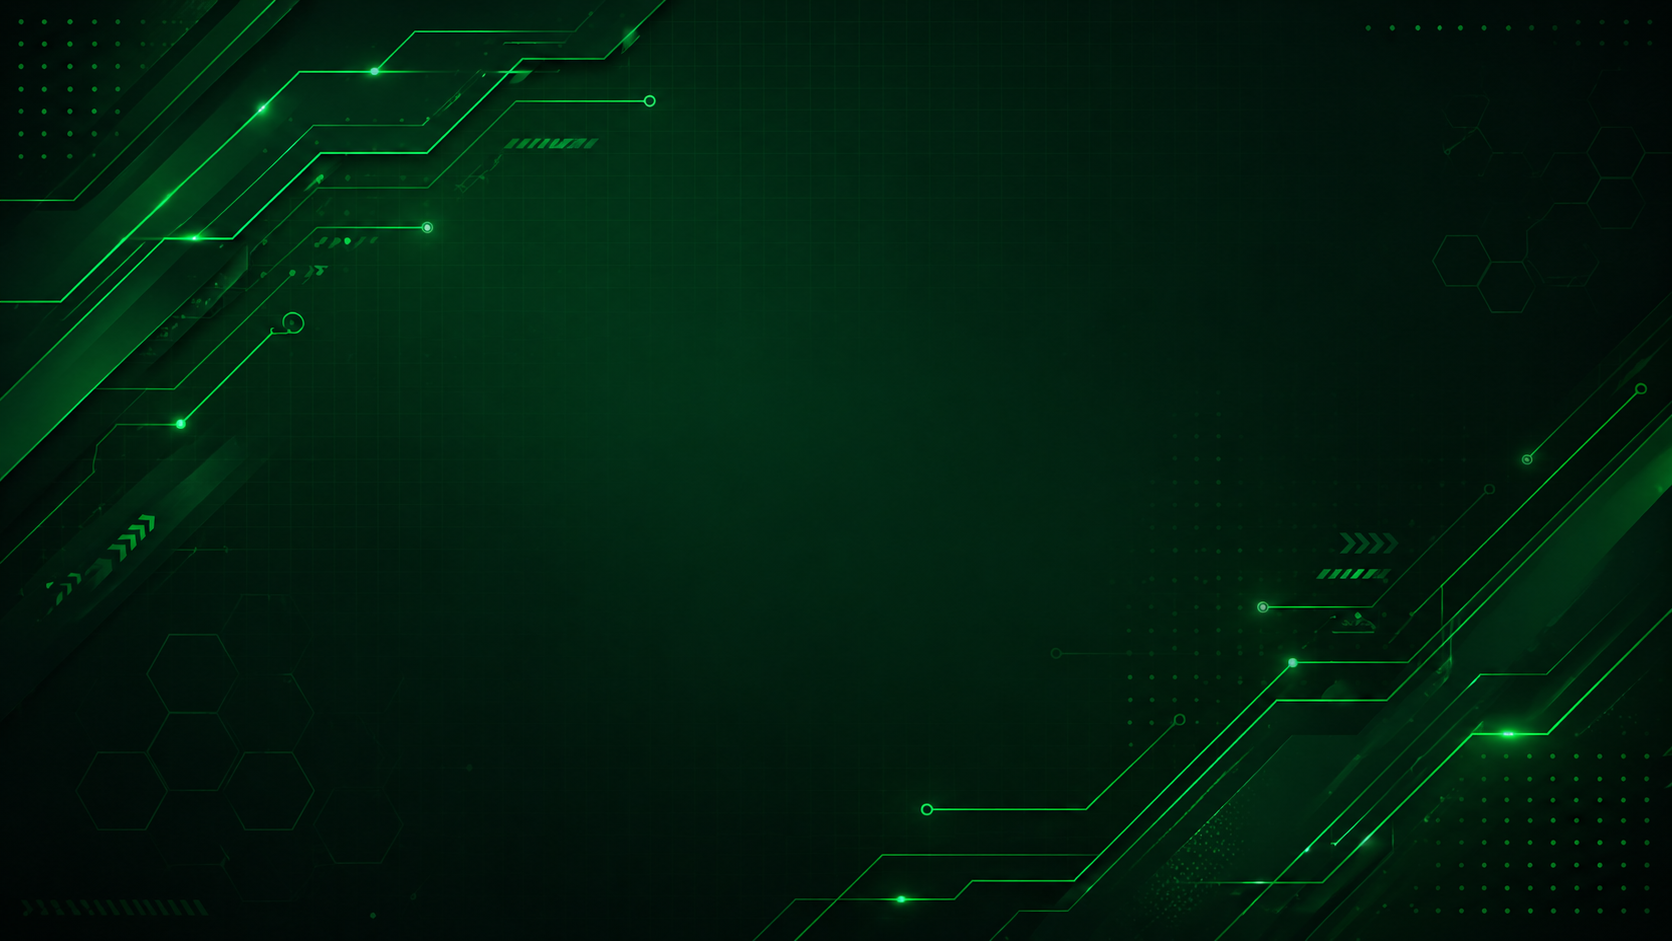
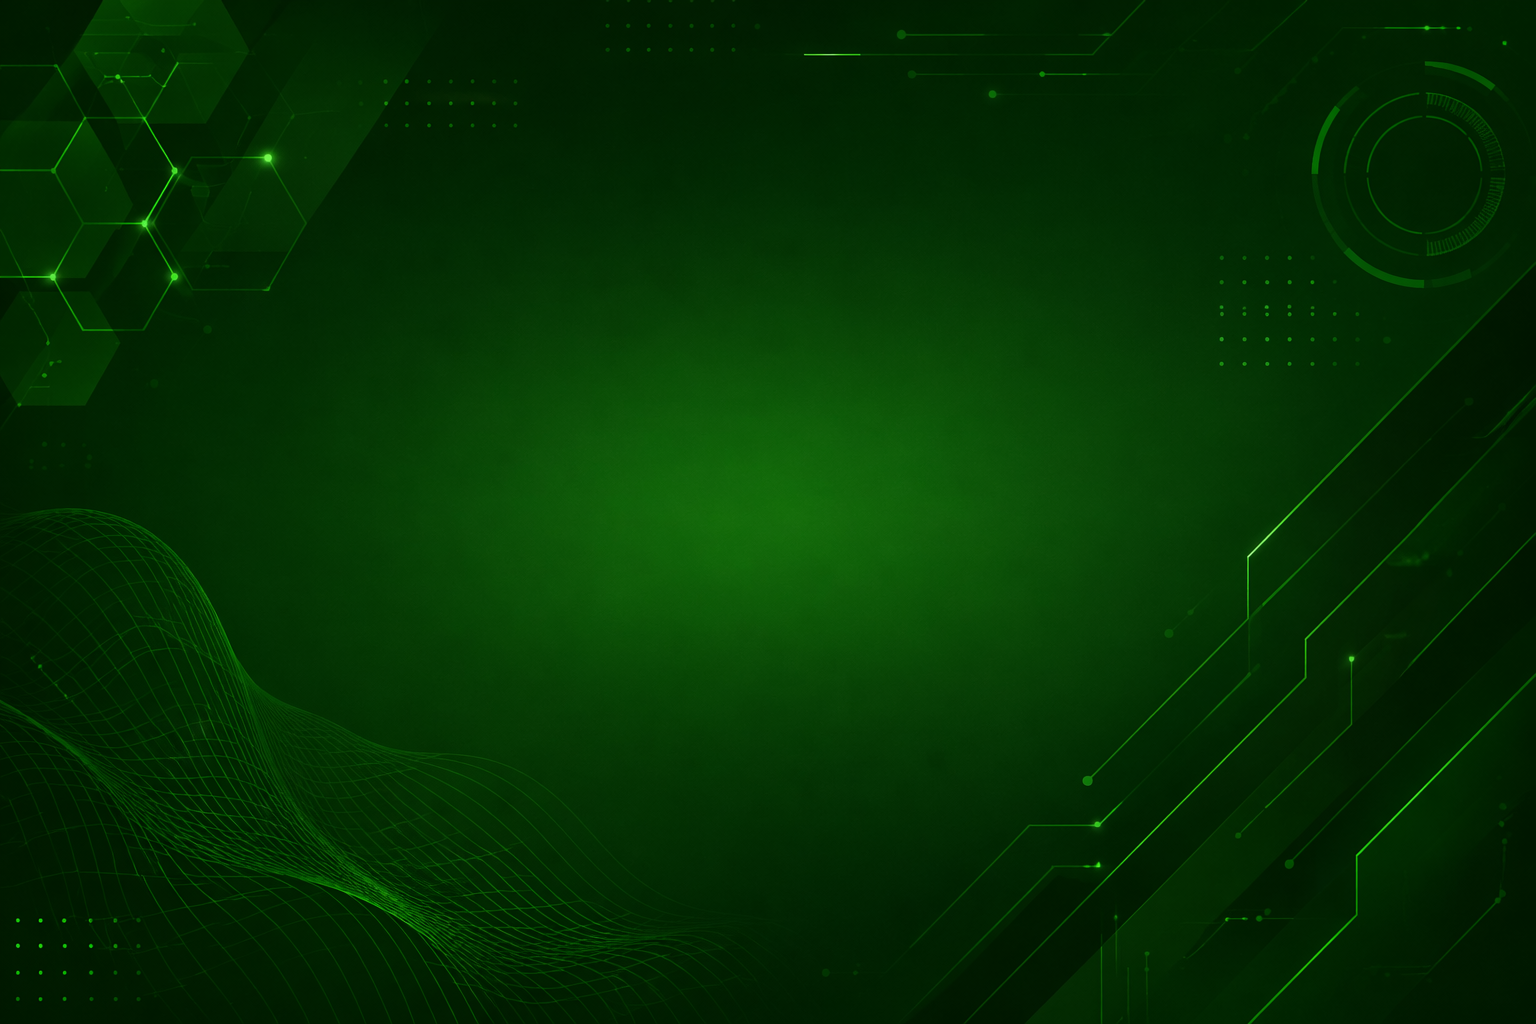
Cambiamos el background

diff --git a/src/App.vue b/src/App.vue
@@ -32,4 +32,12 @@ import router from './router';
 .custom-scroll::-webkit-scrollbar { width: 5px; }
 .custom-scroll::-webkit-scrollbar-thumb { background: rgba(155,155,155,0.2); border-radius: 10px; }
 
+.main-background {
+  background-image: 
+    linear-gradient(rgba(0,0,0,0.6), rgba(0,0,0,0.6)),
+    url('/src/assets/images/desktop_background.png');
+  background-size: cover;
+  background-position: center;
+}
+
 </style>
